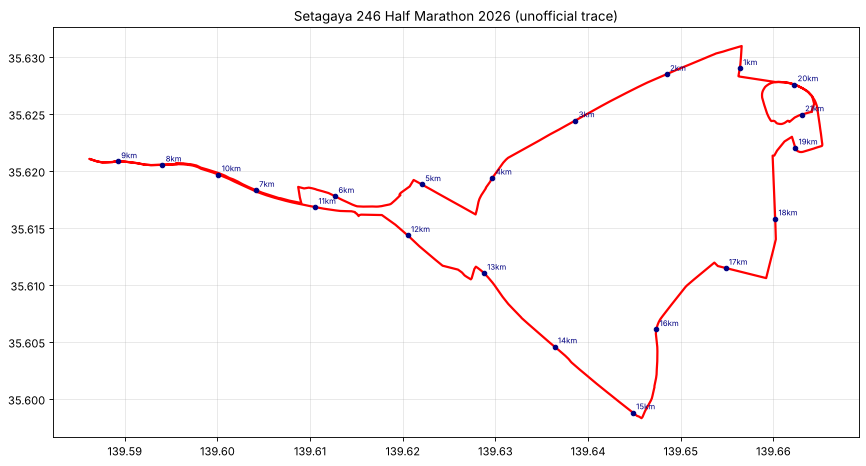
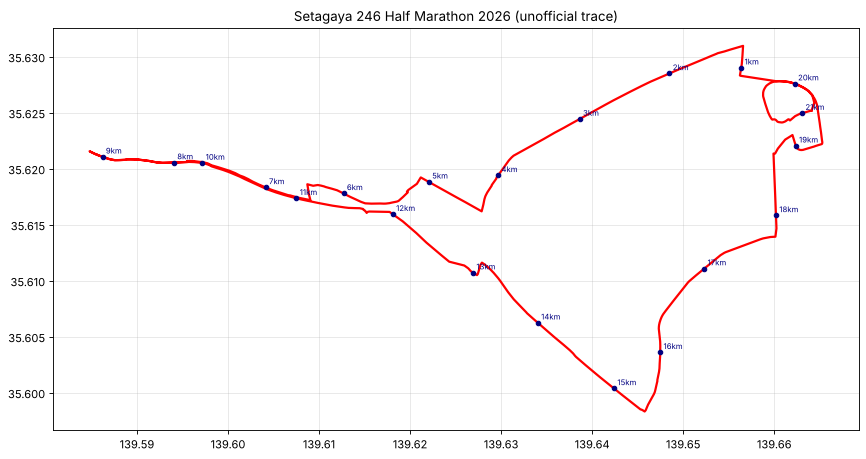
Fix route to follow Meguro-dori up to Sanno junction
The return leg left Meguro-dori early via Hachiman-dori. Per the official
traffic-control map (12 Todoroki-fudo-mae -> 13 Todoroki 3-chome -> 14 Sanno
Tandai), runners stay on Meguro-dori until the Komahachi-dori junction.
Re-calibrated to 21.0975 km.

Claude-Session: https://claude.ai/code/session_011N6daS5ffdxixSavPjr2NY

diff --git a/setagaya246/README.md b/setagaya246/README.md
@@ -17,7 +17,8 @@
 
 - 車道部分は OSRM で道路に沿わせました。河川敷サイクリングロードと駒沢公園内の園路には、OSM のジオメトリをそのまま使っています。
 - 折返し点の正確な位置は公表されていません。そのため、全体が 21.0975 km になる位置を世田谷区・狛江市境付近に置いています。
-- 検算：目黒通りの上り口（玉堤）が約15.1kmになりました。報道されている「15.4km付近から目黒通りの上り」とほぼ合っています。
+- 検算：目黒通りの上り口（玉堤）が約15.4kmになりました。報道されている「15.4km付近から目黒通りの上り」と合っています。
+- 目黒通りは、交通規制チラシの「目黒通り上り ⑫等々力不動前〜⑭産能短大」のとおり、⑭産能短大（駒八通りとの交差点）まで進んでから駒八通りへ左折します。
 - 道路の中心線をなぞっているため、実際の走路とは数十m程度ずれる箇所があります。とくに二子玉川駅下・兵庫島周辺と公園内の取り回しにずれがあります。公式サイトによると、今年は工事の影響で兵庫橋付近のコースが一部変わる予定です。
 - 時計の距離表示は、実際のコースの距離表示とずれることがあります。
 
